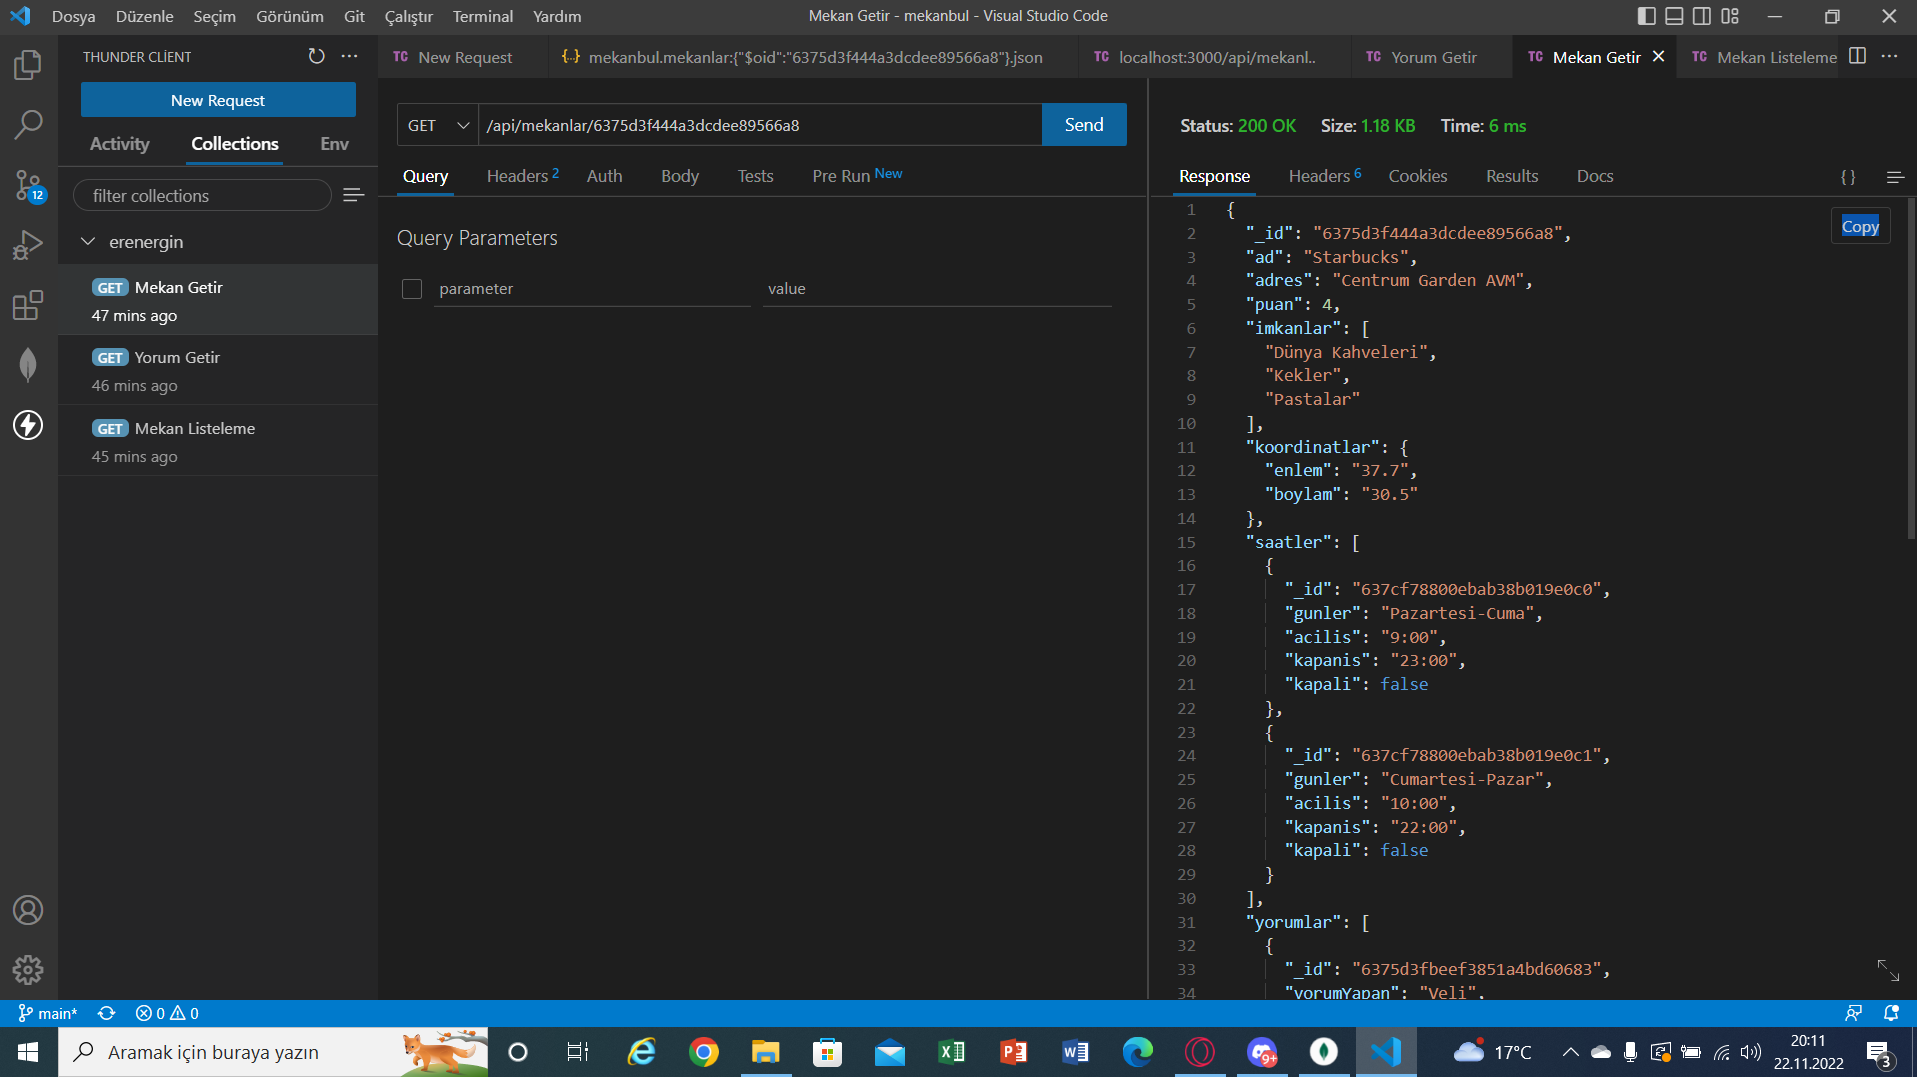
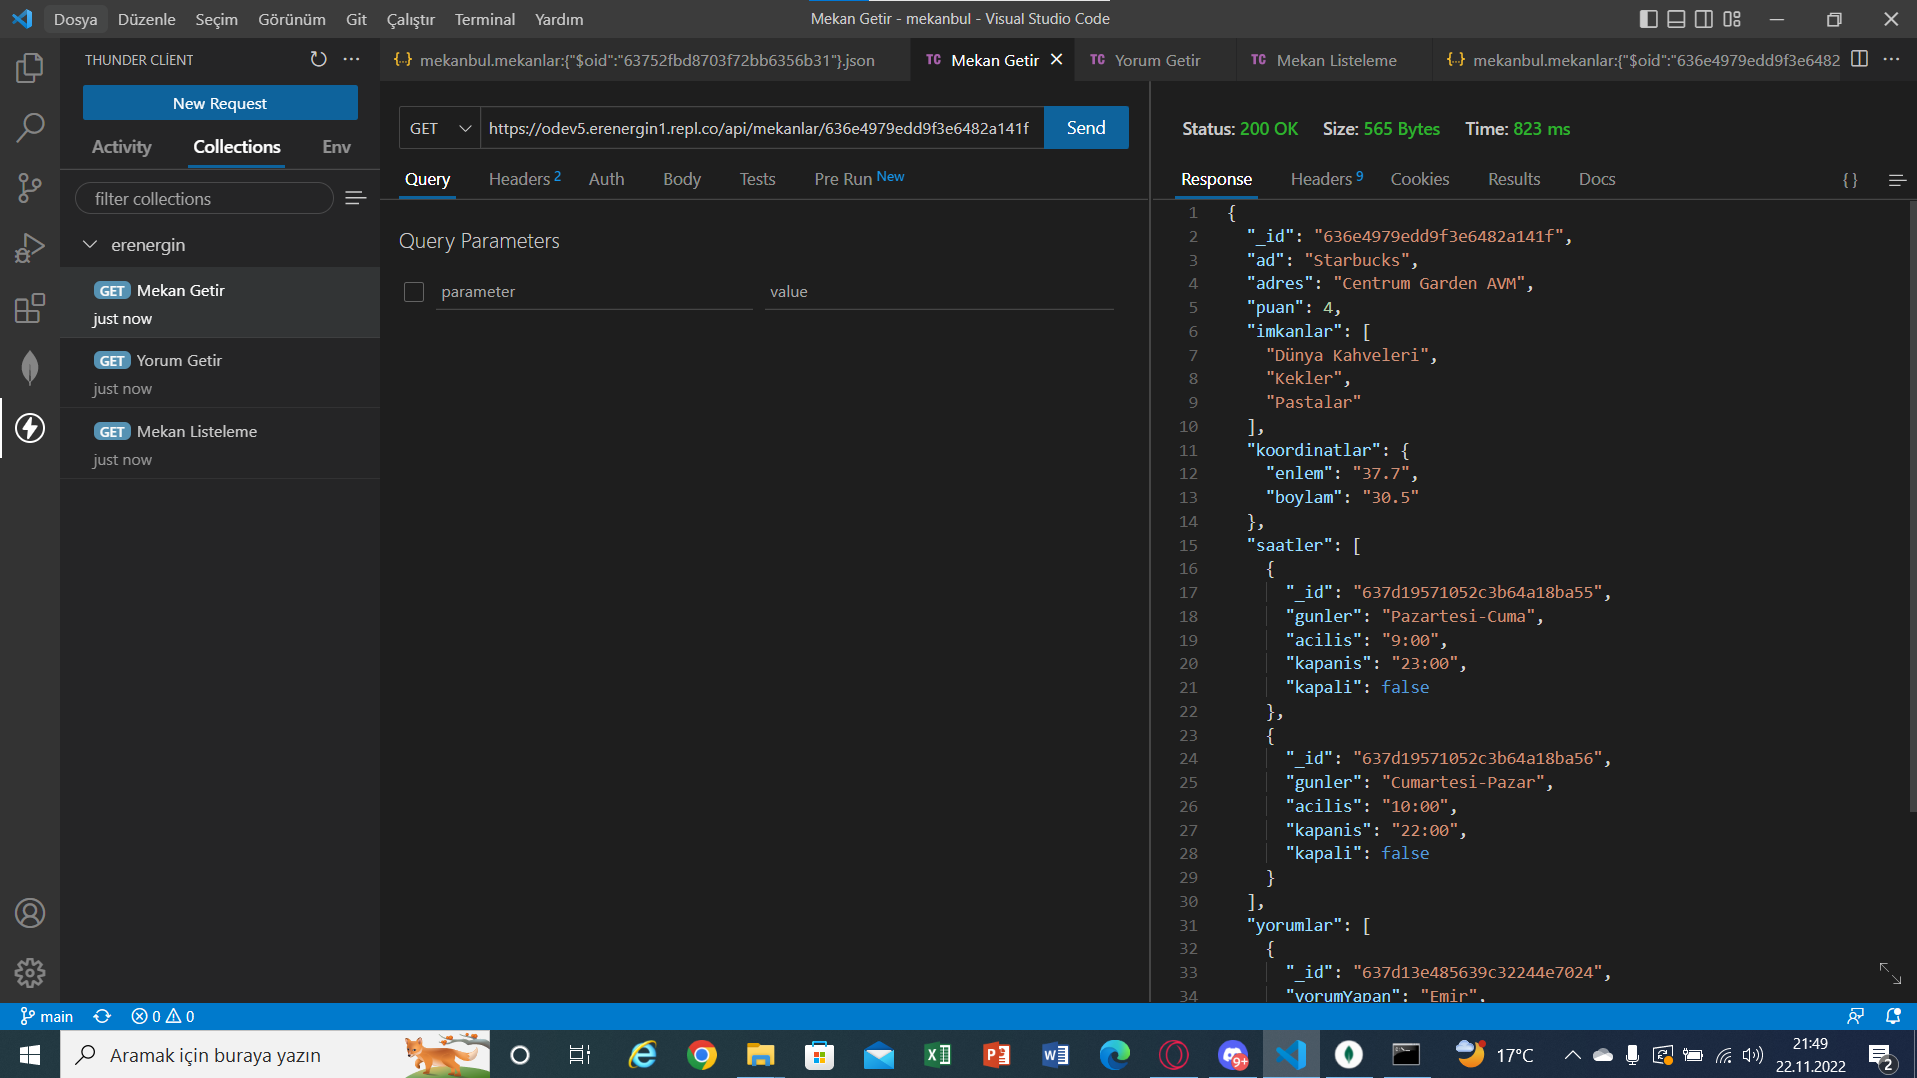
ödev5

diff --git a/README.md b/README.md
@@ -1,1 +1,13 @@
-"# mekanbul" 
+#Mekanbul REST API Adresleri
+
+1.Girilen Konum Civarındaki Mekanları Listele
+https://odev5.erenergin1.repl.co/api/mekanlar?enlem=37.8&boylam=35.4
+![mekan listeleme](resimler/mekan%20listeleme.png)
+
+2. Mekan ID ile Mekan Bilgileri Getir
+https://odev5.erenergin1.repl.co/api/mekanlar/636e4979edd9f3e6482a141f
+![mekan getir](resimler/mekan%20getir.png)
+
+3. Bir Mekana Ait Belirli Bir Yorumu Getir
+https://odev5.erenergin1.repl.co/api/mekanlar/636e4979edd9f3e6482a141f/yorumlar/637d13e485639c32244e7024
+![yorum getir](resimler/yorum%20getir.png)
